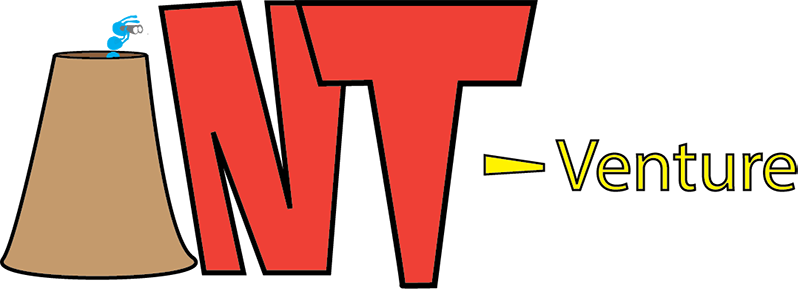
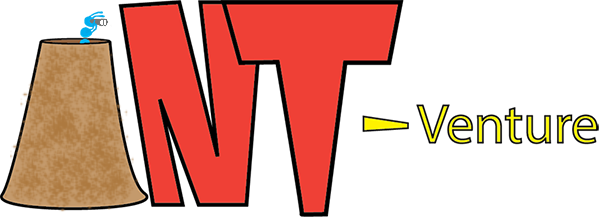
page upgrade

diff --git a/styles/styles.css b/styles/styles.css
@@ -3,17 +3,25 @@
 	padding:0;
 }
 
+body{
+	background-color:#704000;
+}
+
 #AntventureLogo{
-	width:800px;
-	height:289px;
-	background:#704000 url('../images/AntVentureWA.png') top center no-repeat;
-	padding:5px
+	margin:10px auto 10px auto;
+	width:820px;
+	height:200px;
+	background:#95600E url('../images/AntVentureWA.png') center no-repeat;
+	padding:20px;
 }
 #Page{
-	width:1000px;
+	margin: 0px auto 0px auto;
+	padding:25px;
+	width: 810px;
 }
 
 #gameCanvas{
+	width:800px;
 	border-style:solid;
 	border-width:3px;
 }

diff --git a/index.html b/index.html
@@ -9,7 +9,7 @@
 <body>
 
 <div>
-	<a><h1 id="AntventureLogo"></h1></a>
+	<h1 id="AntventureLogo"></h1>
 </div>
 <div>
     <div id="Page" style=" background: #95600e; ">
